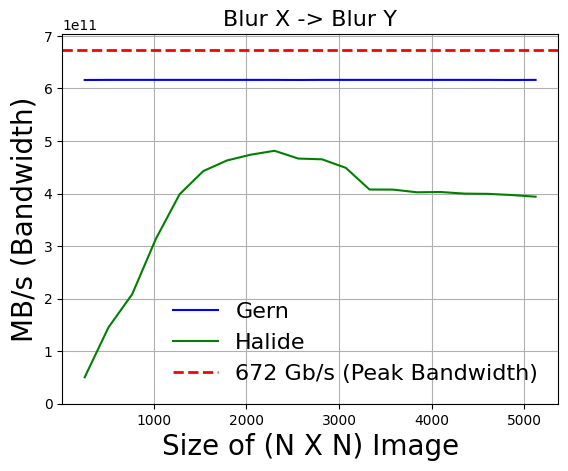
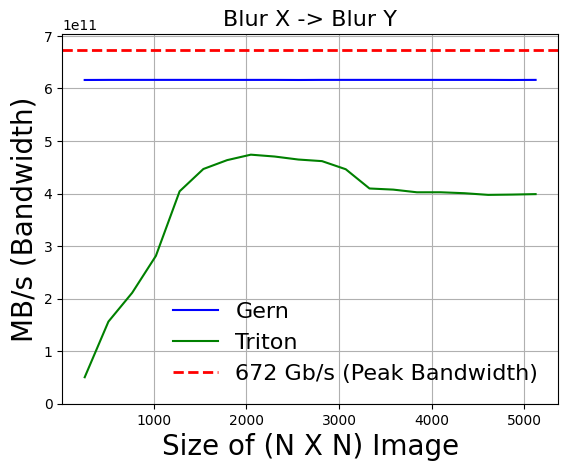
----checkpoint-----

diff --git a/plotter.py b/plotter.py
@@ -161,7 +161,7 @@ generate_plot(["gern", "triton"],
                "apps/blur",
               "Blur X -> Blur Y", "Size of (N X N) Image", 
               "MB/s (Bandwidth)", "bandwidth_gern", 
-              ['Gern', 'Halide'], 
+              ['Gern', 'Triton'], 
               [colors["gern"], "green"],
                roofline = False,
                bandwidth = True)
